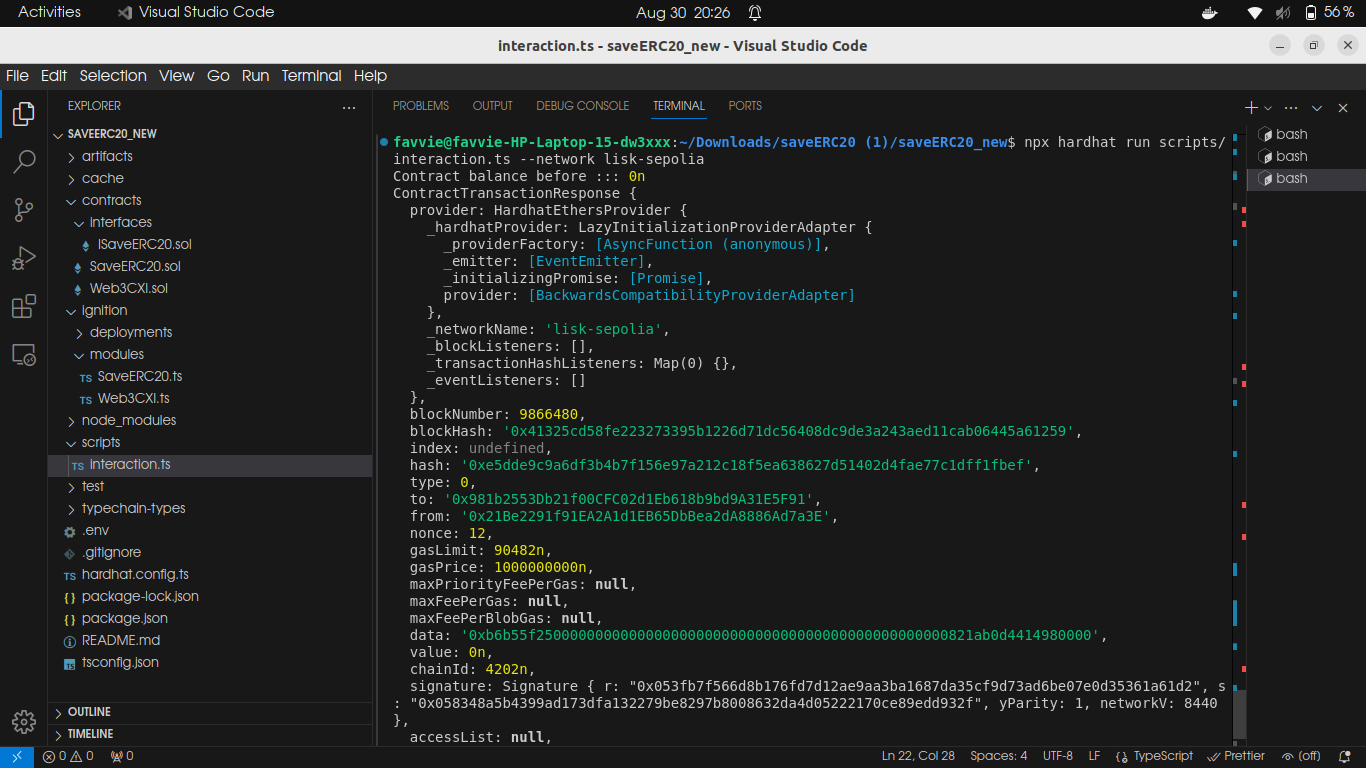
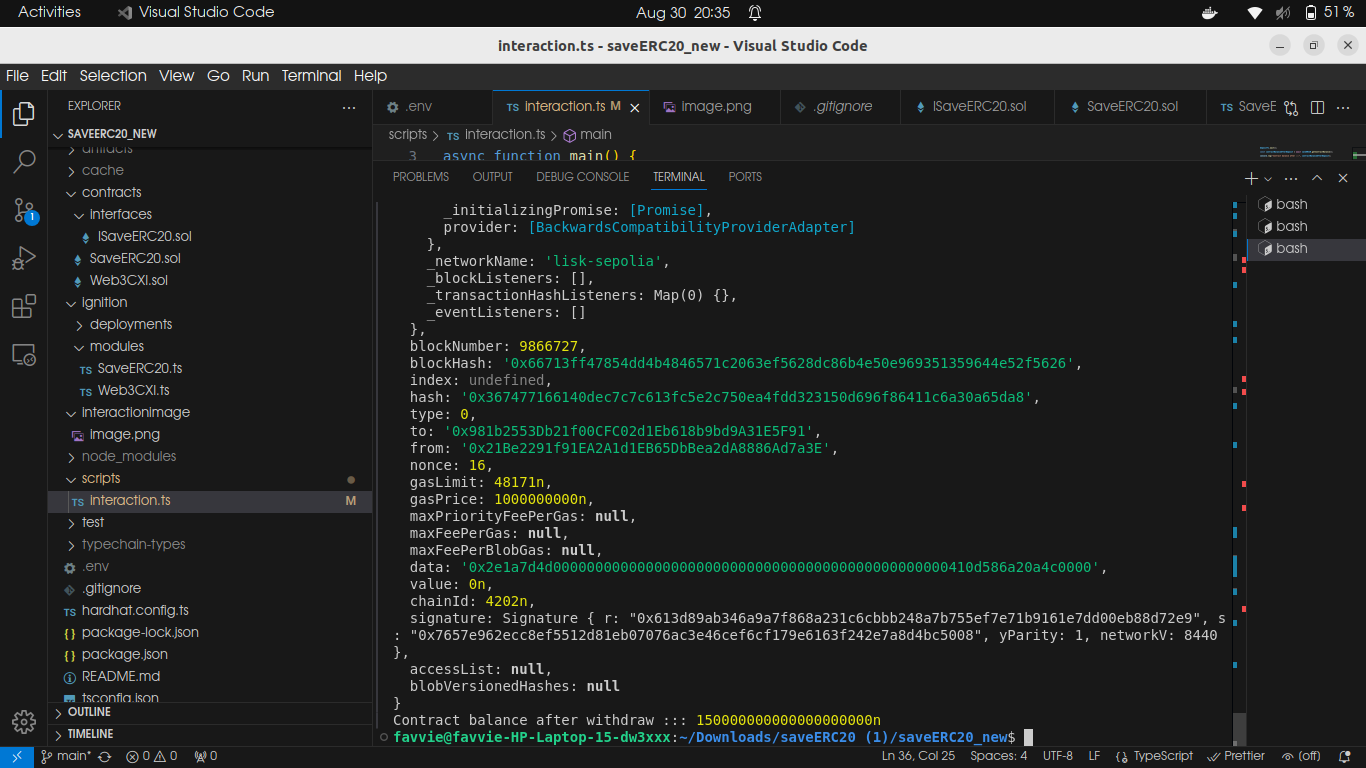
fix: update interaction image

diff --git a/scripts/interaction.ts b/scripts/interaction.ts
@@ -33,7 +33,9 @@ async function main() {
     const withdrawAmount = ethers.parseUnits("75", 18);
     const withdrawTx = await saveERC20.withdraw(withdrawAmount);
 
+    console.log(withdrawTx);
     withdrawTx.wait();
+
 
     const contractBalanceAfterWithdrawal = await saveERC20.getContractBalance();
 
